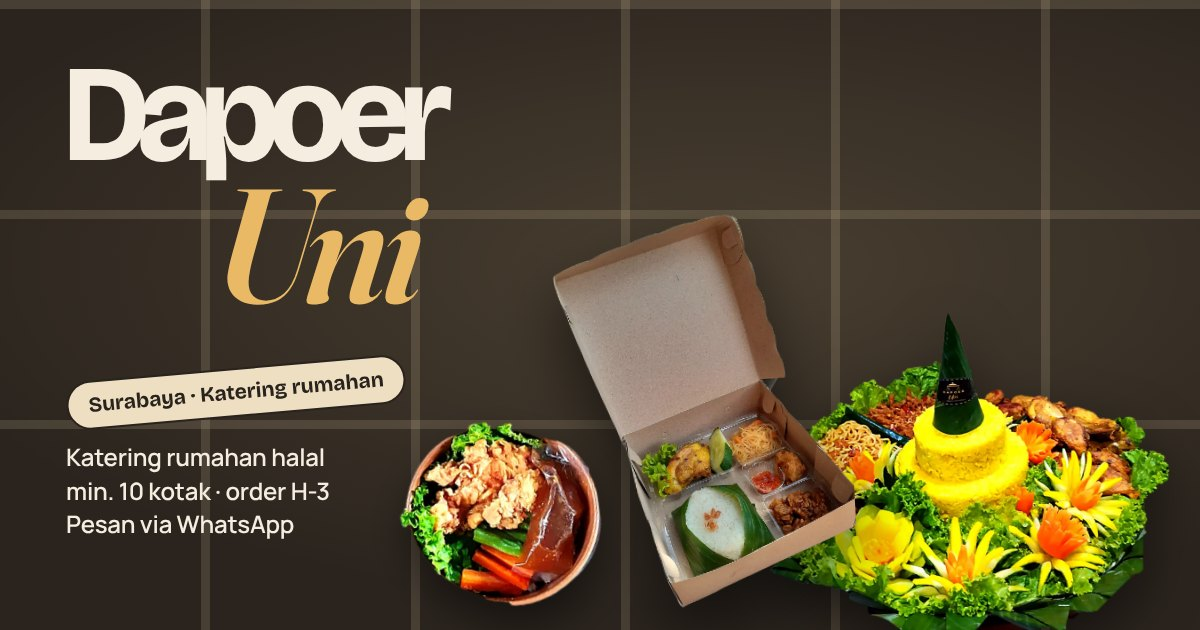
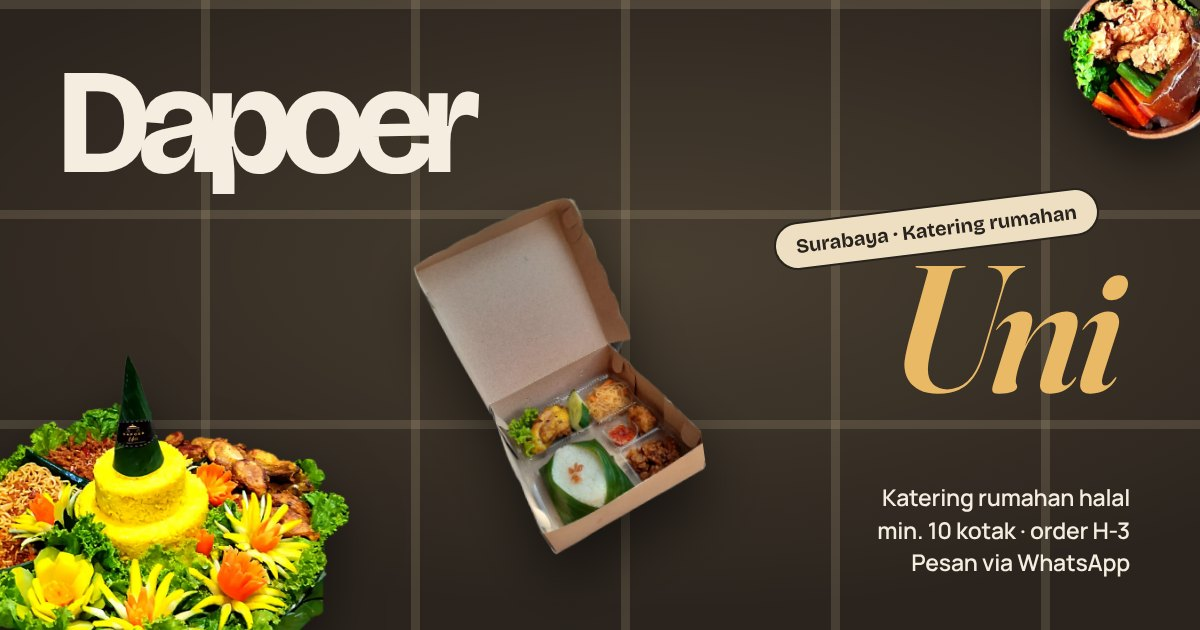
Hero kembali ke tata letak acak dengan foto baru, posisi presisi
- Tumpeng besar di kiri bawah (tepi foto terpotong di luar layar), kotak kraft
  miring di tengah, mangkuk kecil di kanan atas; teks "Dapoer" kiri, stiker +
  "Uni" kanan, subjudul + tombol kanan bawah
- Tepi teks hero sejajar persis dengan isi header di semua lebar desktop
  (--wrap-l + koreksi lekuk huruf); foto tidak menyentuh tulisan (dicek per piksel)
- Tombol hero ikut skala komposisi; OG image & CLAUDE.md diperbarui

Claude-Session: https://claude.ai/code/session_01HoecZhyrK6N3RbhsKikyQv

diff --git a/src/index.css b/src/index.css
@@ -284,34 +284,38 @@
     height: clamp(560px, 100svh, 62.5vw + 120px);
     --px: min(100cqw / 1440, 100cqh / 900, 1px);
     --top-pad: 0px;
+    /* tepi kiri/kanan isi header (.wrap 1080px) → teks hero sejajar dengan logo & tombol header */
+    --wrap-l: max(var(--gut), (100cqw - 1080px) / 2);
   }
   /*
-   * Teks diukur dari atas, foto berjajar dari bawah ("di atas meja"):
-   * mangkuk (kiri) · kotak (tengah, paling besar) · tumpeng (kanan, alasnya
-   * menempel di tepi bawah). Kalau layar lebih tinggi, ruang lebihnya ada di tengah.
+   * Tata letak acak ala referensi (frame desain 1440×900, posisi dihitung supaya
+   * foto tidak menabrak tulisan):
+   * - "Dapoer" kiri atas; stiker + "Uni" kanan; subjudul + tombol kanan bawah.
+   * - Kotak kraft di tengah (miring), tumpeng besar di kiri bawah, mangkuk kecil di kanan atas.
+   * - Tepi foto tumpeng yang terpotong (kiri & bawah) sengaja berada di luar layar.
    */
   .hero__item { position: absolute; will-change: transform; }
   .hero__item img { display: block; width: 100%; height: auto; }
-  .hero__item--tumpeng { z-index: 1; width: calc(480 * var(--px)); left: calc(50% + 200 * var(--px)); bottom: 0; }
+  .hero__item--tumpeng { z-index: 1; width: calc(520 * var(--px)); left: calc(-60 * var(--px)); bottom: calc(-52 * var(--px)); }
   .hero__item--tumpeng img { filter: drop-shadow(0 24px 30px rgba(0, 0, 0, 0.5)); }
-  .hero__item--box { z-index: 2; width: calc(400 * var(--px)); left: calc(50% - 160 * var(--px)); bottom: calc(28 * var(--px)); }
-  .hero__item--box img { rotate: -3deg; filter: drop-shadow(0 40px 40px rgba(0, 0, 0, 0.55)); }
-  .hero__item--bowl { z-index: 3; width: calc(262 * var(--px)); left: calc(50% - 404 * var(--px)); bottom: calc(24 * var(--px)); }
-  .hero__item--bowl img { rotate: -8deg; filter: drop-shadow(0 26px 24px rgba(0, 0, 0, 0.5)); }
+  .hero__item--box { z-index: 2; width: calc(380 * var(--px)); left: calc(50% - 70 * var(--px)); top: calc(50% + 150 * var(--px)); }
+  .hero__item--box img { translate: -50% -50%; rotate: -8deg; filter: drop-shadow(0 40px 40px rgba(0, 0, 0, 0.55)); }
+  .hero__item--bowl { z-index: 1; width: calc(230 * var(--px)); right: calc(-40 * var(--px)); top: calc(50% - 345 * var(--px)); }
+  .hero__item--bowl img { rotate: 12deg; filter: drop-shadow(0 26px 24px rgba(0, 0, 0, 0.5)); }
   .hero__words { position: absolute; inset: 0; z-index: 4; pointer-events: none; }
   .hero .w { position: absolute; display: block; line-height: 0.86; text-shadow: 0 8px 40px rgba(18, 13, 9, 0.35); }
   .w--dapoer {
     font: 700 calc(206 * var(--px)) / 0.86 var(--font-display);
     letter-spacing: -0.075em;
-    left: calc(50% - 540 * var(--px));
-    top: calc(150 * var(--px));
+    left: calc(var(--wrap-l) - 0.04em); /* koreksi lekuk huruf "D" */
+    top: calc(50% - 290 * var(--px));
   }
   .w--uni {
     font: italic 600 calc(250 * var(--px)) / 0.86 var(--font-serif);
     color: var(--color-gold);
     letter-spacing: -0.04em;
-    right: calc(50% - 552 * var(--px));
-    top: calc(228 * var(--px));
+    right: calc(var(--wrap-l) + 0.064em); /* ujung huruf miring "i" pas di tepi kanan */
+    top: calc(50% - 98 * var(--px));
   }
   .w--kota {
     font: 700 calc(21 * var(--px)) / 1 var(--font-display);
@@ -321,9 +325,9 @@
     border: 1.5px solid var(--color-espresso);
     border-radius: 999px;
     padding: calc(14 * var(--px)) calc(24 * var(--px));
-    right: calc(50% - 524 * var(--px));
-    top: calc(176 * var(--px));
-    rotate: -6deg;
+    right: calc(var(--wrap-l) + 34 * var(--px));
+    top: calc(50% - 144 * var(--px));
+    rotate: -7deg;
     white-space: nowrap;
     text-shadow: none;
   }
@@ -333,19 +337,28 @@
   .hero__foot {
     position: absolute;
     z-index: 5;
-    left: calc(50% - 540 * var(--px));
-    top: calc(372 * var(--px));
+    right: var(--wrap-l);
+    bottom: calc(50% - 386 * var(--px));
+    text-align: right;
   }
   .hero__foot p {
     font: 600 calc(21 * var(--px)) / 1.35 var(--font-display);
     letter-spacing: -0.02em;
-    margin: 0 0 calc(20 * var(--px));
+    margin: 0 0 calc(18 * var(--px));
     color: var(--color-cream);
     text-shadow: 0 4px 24px rgba(0, 0, 0, 0.4);
   }
   .hero__foot p > span { display: block; }
   .hero__foot .sep { display: none; }
-  .hero__btns { display: flex; gap: 12px; flex-wrap: wrap; }
+  .hero__btns { display: flex; gap: calc(12 * var(--px)); flex-wrap: wrap; justify-content: flex-end; }
+  /* tombol hero ikut skala komposisi (dengan ukuran minimum agar tetap mudah ditekan) */
+  .hero__btns .pill {
+    height: max(46px, calc(62 * var(--px)));
+    padding: 0 max(18px, calc(30 * var(--px)));
+    font-size: max(16px, calc(22 * var(--px)));
+    gap: max(8px, calc(10 * var(--px)));
+  }
+  .hero__btns .pill .icon { width: max(18px, calc(22 * var(--px))); height: max(18px, calc(22 * var(--px))); }
 
   /* ==========================================================
      PAKET (teaser di beranda)
@@ -963,14 +976,15 @@
 @media (max-width: 767px), (max-width: 1100px) and (orientation: portrait) {
   .hero { height: clamp(560px, 100svh, 1100px); --px: min(100cqw / 390, (100cqh - var(--top-pad)) / 844); }
   .tiles { --t: 170px; --g: 8px; }
-  /* tumpeng di tengah-belakang (kerucut berlabel terlihat), kotak depan-kiri, mangkuk depan-kanan */
-  .hero__item--tumpeng { width: calc(330 * var(--px)); left: calc(50% - 145 * var(--px)); bottom: 0; }
-  .hero__item--box { width: calc(180 * var(--px)); left: calc(50% - 195 * var(--px)); bottom: calc(24 * var(--px)); }
-  .hero__item--bowl { width: calc(130 * var(--px)); left: calc(50% + 63 * var(--px)); bottom: calc(16 * var(--px)); }
-  .w--dapoer { font-size: calc(102 * var(--px)); left: 0; right: 0; text-align: center; top: calc(92 * var(--px) + var(--top-pad)); }
-  .w--uni { font-size: calc(128 * var(--px)); left: 0; right: 0; text-align: center; top: calc(166 * var(--px) + var(--top-pad)); padding-left: calc(70 * var(--px)); }
-  .w--kota { font-size: calc(14 * var(--px)); padding: calc(9 * var(--px)) calc(14 * var(--px)); left: auto; right: calc(50% - 178 * var(--px)); top: calc(288 * var(--px) + var(--top-pad)); rotate: -5deg; z-index: 2; }
-  .hero__foot { left: var(--gut); right: var(--gut); top: calc(346 * var(--px) + var(--top-pad)); text-align: center; }
+  /* HP: mangkuk kecil di kanan atas, kotak tengah-kanan, tumpeng besar di kiri bawah */
+  .hero__item--tumpeng { width: calc(262 * var(--px)); left: calc(-36 * var(--px)); bottom: calc(-26 * var(--px)); }
+  .hero__item--box { width: calc(220 * var(--px)); left: calc(50% + 45 * var(--px)); top: calc(100% - 196 * var(--px)); }
+  .hero__item--box img { rotate: 8deg; }
+  .hero__item--bowl { width: calc(120 * var(--px)); right: calc(-32 * var(--px)); top: calc(-20 * var(--px) + var(--top-pad) * 1.4); }
+  .w--dapoer { font-size: calc(102 * var(--px)); left: 0; right: 0; text-align: center; top: calc(102 * var(--px) + var(--top-pad)); }
+  .w--uni { font-size: calc(128 * var(--px)); left: 0; right: 0; text-align: center; top: calc(176 * var(--px) + var(--top-pad)); padding-left: calc(70 * var(--px)); }
+  .w--kota { font-size: calc(14 * var(--px)); padding: calc(9 * var(--px)) calc(14 * var(--px)); left: auto; right: calc(50% - 177 * var(--px)); top: calc(296 * var(--px) + var(--top-pad)); rotate: -5deg; z-index: 2; }
+  .hero__foot { left: var(--gut); right: var(--gut); bottom: auto; top: calc(350 * var(--px) + var(--top-pad)); text-align: center; }
   .hero__foot p { font-size: calc(15.5 * var(--px)); margin-bottom: 12px; }
   .hero__foot p > span { display: inline; }
   .hero__foot .sep { display: inline; }

diff --git a/CLAUDE.md b/CLAUDE.md
@@ -254,7 +254,7 @@ Aturan performa:
 
 **Beranda (`/`)**
 1. Header: logo bulat, pil Menu · Tentang · Jumat Berkah · Kontak, pil emas "Chat WA". Di HP: satu pil "Menu" yang membuka menu layar penuh.
-2. Hero: meja ubin espresso. Teks di kiri ("Dapoer", subjudul 2 baris, tombol "Lihat Menu" & "Chat WA"), "*Uni*" emas dan stiker "Surabaya · Katering rumahan" di **kanan**. Tiga foto pilihan pemilik berjajar di bawah: rice bowl (kiri), nasi kotak kraft (tengah, paling besar), tumpeng nasi kuning (kanan, alasnya menempel di tepi bawah). Di HP: teks di atas, tumpeng di tengah-belakang (kerucut berlabel terlihat), kotak depan-kiri, mangkuk depan-kanan.
+2. Hero: tata letak acak ala referensi dengan tiga foto pilihan pemilik di atas meja ubin espresso: nasi kotak kraft di tengah (miring), tumpeng besar di kiri bawah (tepi foto yang terpotong sengaja di luar layar), rice bowl kecil di kanan atas. "Dapoer" di kiri atas; stiker "Surabaya · Katering rumahan" dan "*Uni*" emas di kanan; subjudul 2 baris + tombol "Lihat Menu" & "Chat WA" di kanan bawah. Tepi teks sejajar persis dengan isi header (kiri logo, kanan tombol Chat WA) di semua lebar desktop lewat `--wrap-l`, dan posisi foto dihitung supaya tidak menyentuh tulisan (dicek per piksel). Di HP: teks di tengah atas, mangkuk di kanan atas, kotak tengah-kanan, tumpeng di kiri bawah.
 3. Paket Nasi Kotak: 4 lingkaran tingkat dengan label "Paket X · Rp...–...", tombol "Lihat semua menu", lalu banner **Paket Custom**.
 4. Tentang Kami: cerita besar + "Rumahan. Halal. Sesuai Budget." + foto melengkung bertag + 3 kartu nilai.
 5. Jumat Berkah (blok gelap): penjelasan + tombol WA khusus. Jangan menulis angka penerima/masjid.
